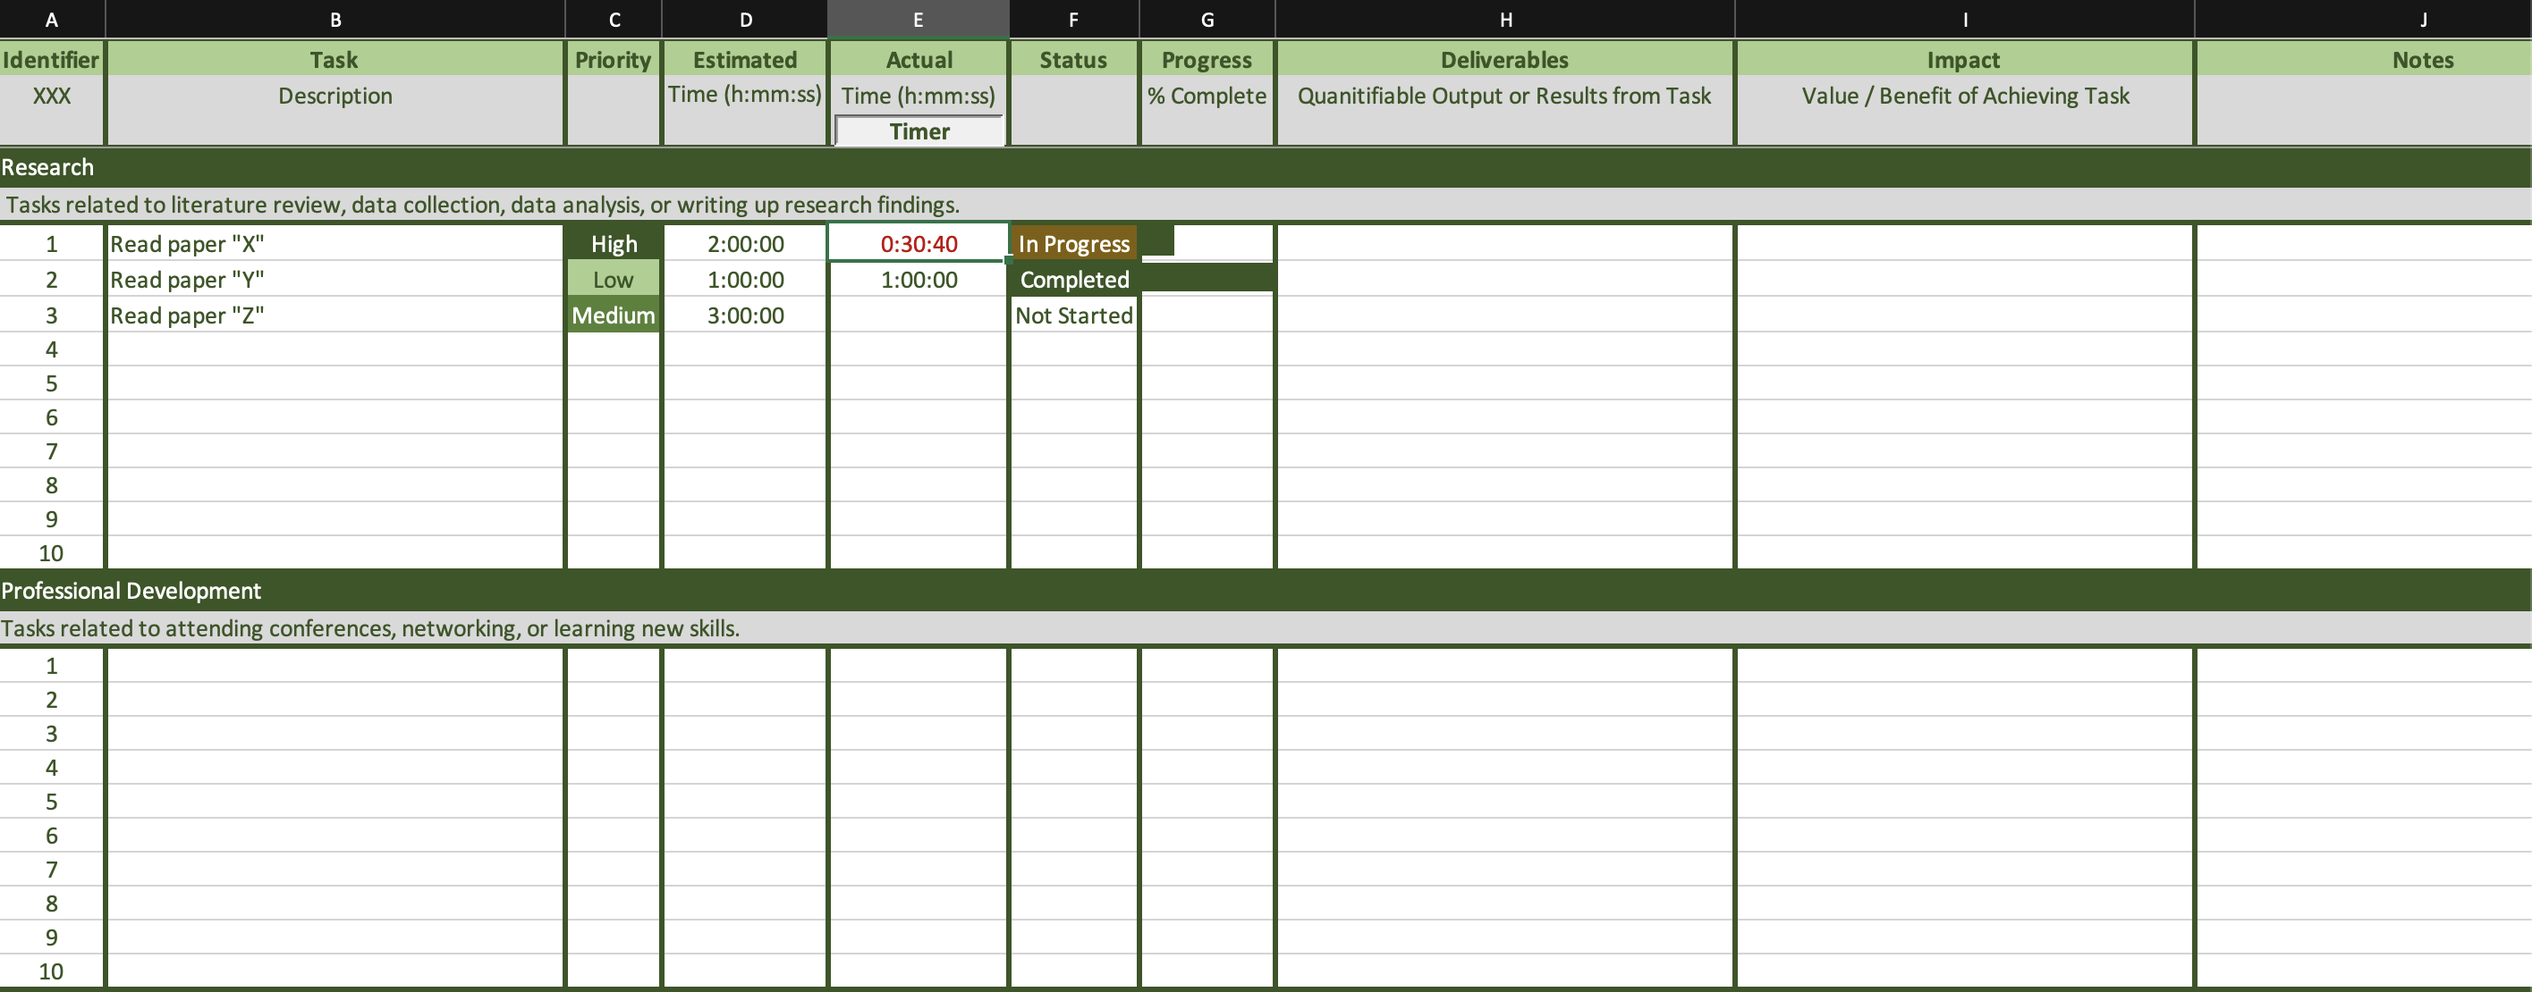
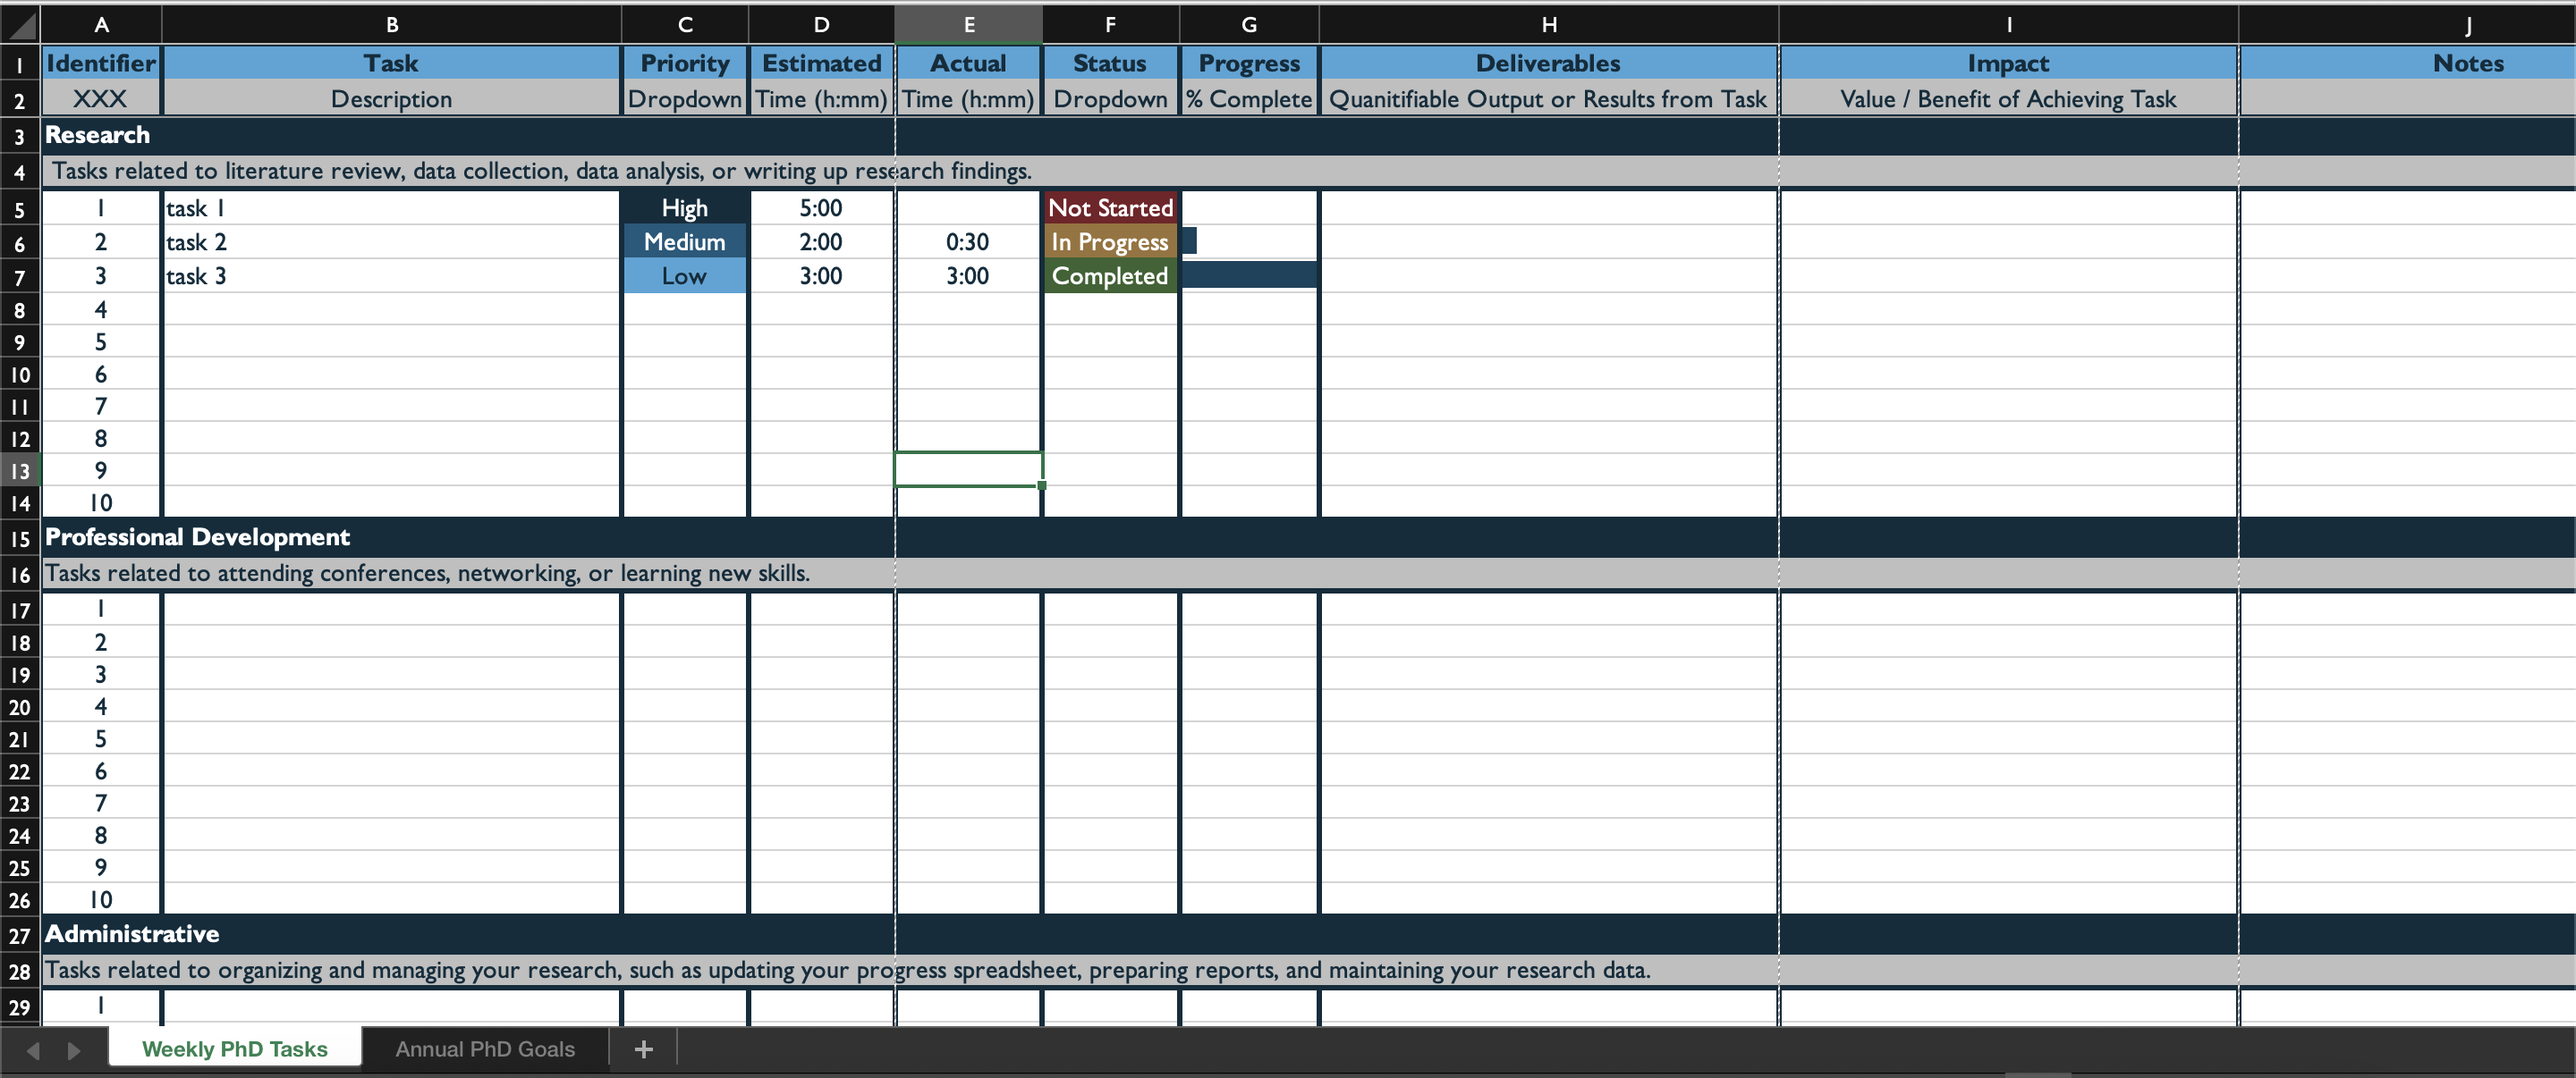
updated images and spreadsheet; added instructions in README

diff --git a/README.md b/README.md
@@ -6,6 +6,44 @@ This repository contains Excel spreadsheet templates for monitoring PhD producti
 
 ![Annual PhD Goals Template](https://github.com/sheilaschoepp/phd_productivity/blob/main/.images/Annual%20PhD%20Goals.png?raw=true)
 
+### Instructions
+1. Goal: Clearly describe each goal so you know exactly what you're aiming for.
+2. Priority: Assign a priority level to each goal (e.g., high, medium, low) to help you focus on what's most important.
+3. Start: The date you plan to start working on the goal.
+4. End: The deadline for achieving the goal.
+5. Status: The current state of each goal (e.g., not started, in progress, completed, on hold).
+6. Progress: Track your progress toward each goal (i.e., percentage completed).
+7. Deliverables: List the main outputs or results you expect from each goal, such as completing a research paper, presenting at a conference, or obtaining a grant. These deliverables should be tangible and measurable, which will make it easier to assess your progress.
+8. Impact: Describe the potential benefits or impact of achieving each goal on your PhD journey. This could be related to advancing your research, building your professional network, developing new skills, or improving your work-life balance.
+9. Notes: Any additional information, reminders, or comments related to the goal.
+10. Review Dates: Schedule periodic review dates to evaluate your progress and make any necessary adjustments.
+11. Custom: You may wish to include a custom column.
+12. Custom: You may wish to include a custom column.
+
+### Special Features
+
+1. If a goal start date has passed, but the project status is blank or is "Not Started", the cell will be highlighted in red to indicate an important date has passed.  Change the start date or the project status to "In Progress" to remove the highlighting.
+2. If a goal end date has passed, but the project status is not "Completed", the cell will be highlighted in red to indicate an important date has passed.  Change the end date or the project status to "Completed" to remove the highlighting.
+3. If a goal review date has passed and the review is not marked as done (i.e., with a "Y"), the cell will be highlighted in red to indicate that the review date has passed.  Change the review date or mark the review as done to remove the highlighting.
+
 ## Weekly PhD Tasks Template
 
 ![Weekly PhD Tasks Template](https://github.com/sheilaschoepp/phd_productivity/blob/main/.images/Weekly%20PhD%20Tasks.png?raw=true)
+
+### Instructions
+
+1. Task: Clearly describe each task you need to complete.
+2. Priority: Assign a priority level to each task (e.g., high, medium, low) to help you focus on what's most important.
+3. Estimated (Time): Estimate how long you think each task will take to complete.
+4. Actual (Time): Track how long each task actually took to complete.
+5. Status: The current state of each task (e.g., not started, in progress, completed, on hold).
+6. Progress: Track your progress toward each task (i.e., percentage completed).
+7. Deliverables: List the main outputs or results you expect from each task. These deliverables should be tangible and measurable, which will make it easier to assess your progress.
+8. Impact: Describe the potential benefits or impact of achieving each task.
+9. Notes: Any additional information, reminders, or comments related to the task.
+10. Custom: You may wish to include a custom column.
+11. Custom: You may wish to include a custom column.
+
+### Special Features
+
+None at this time.
